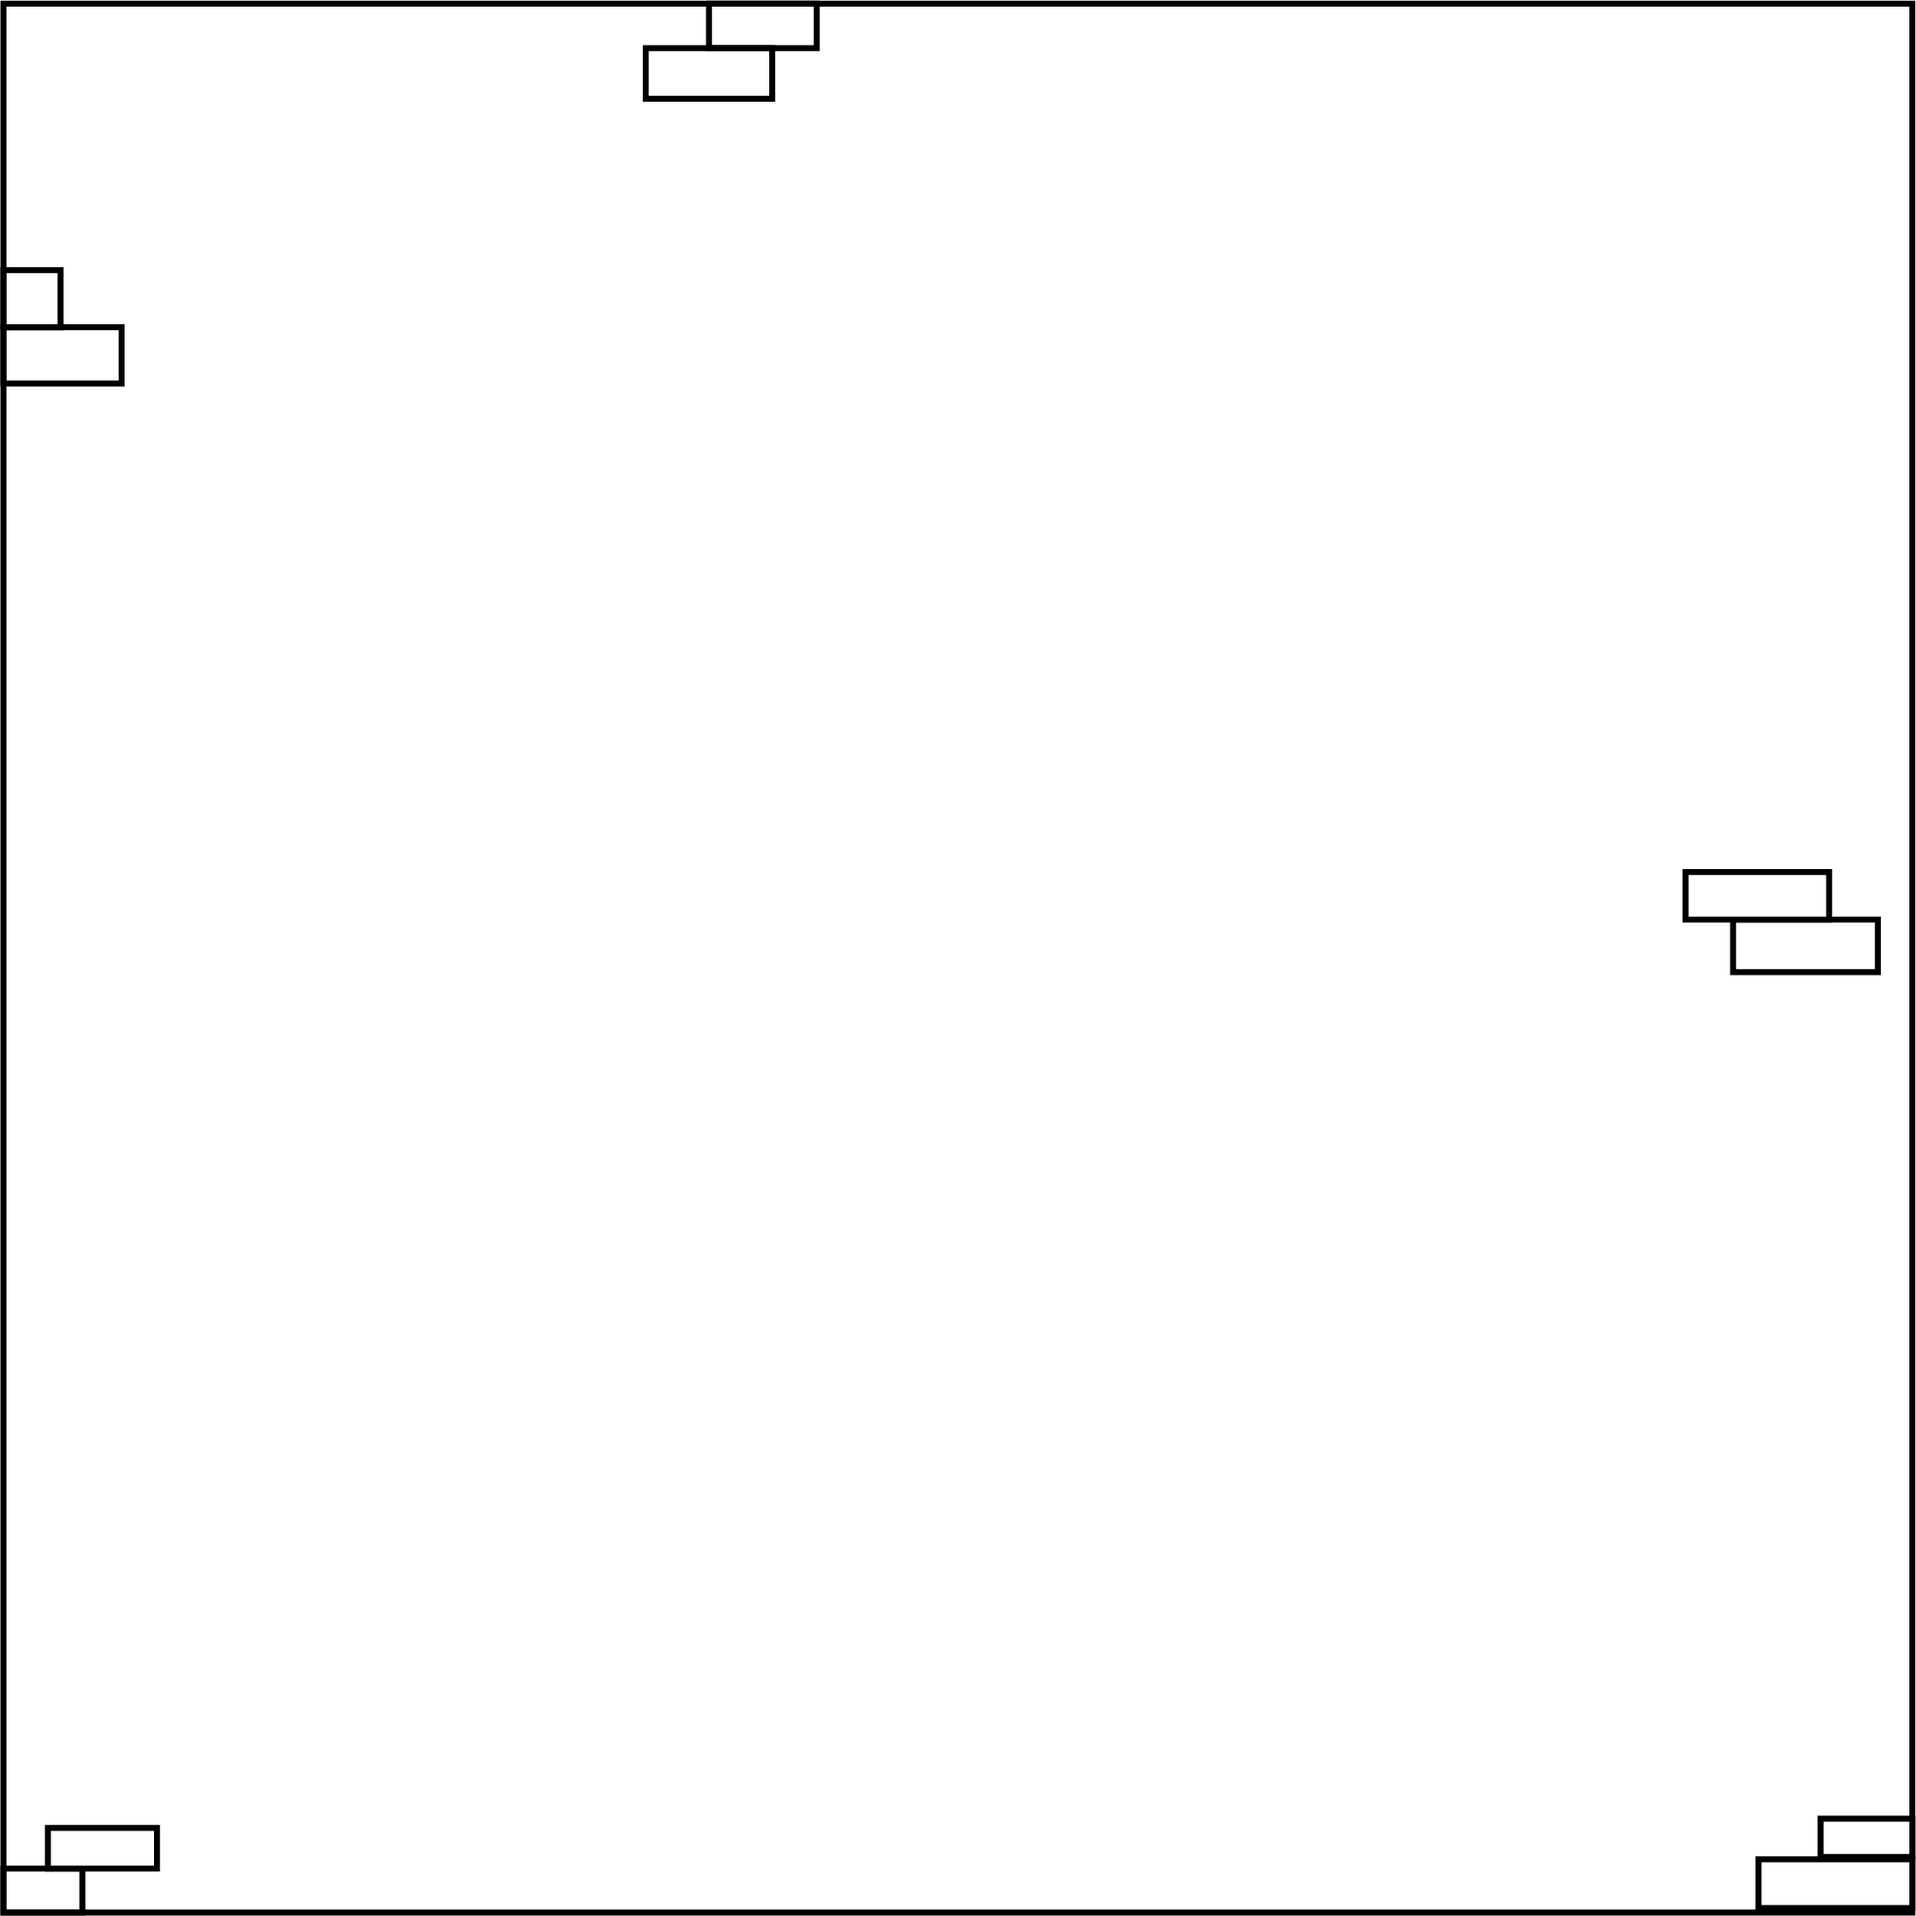
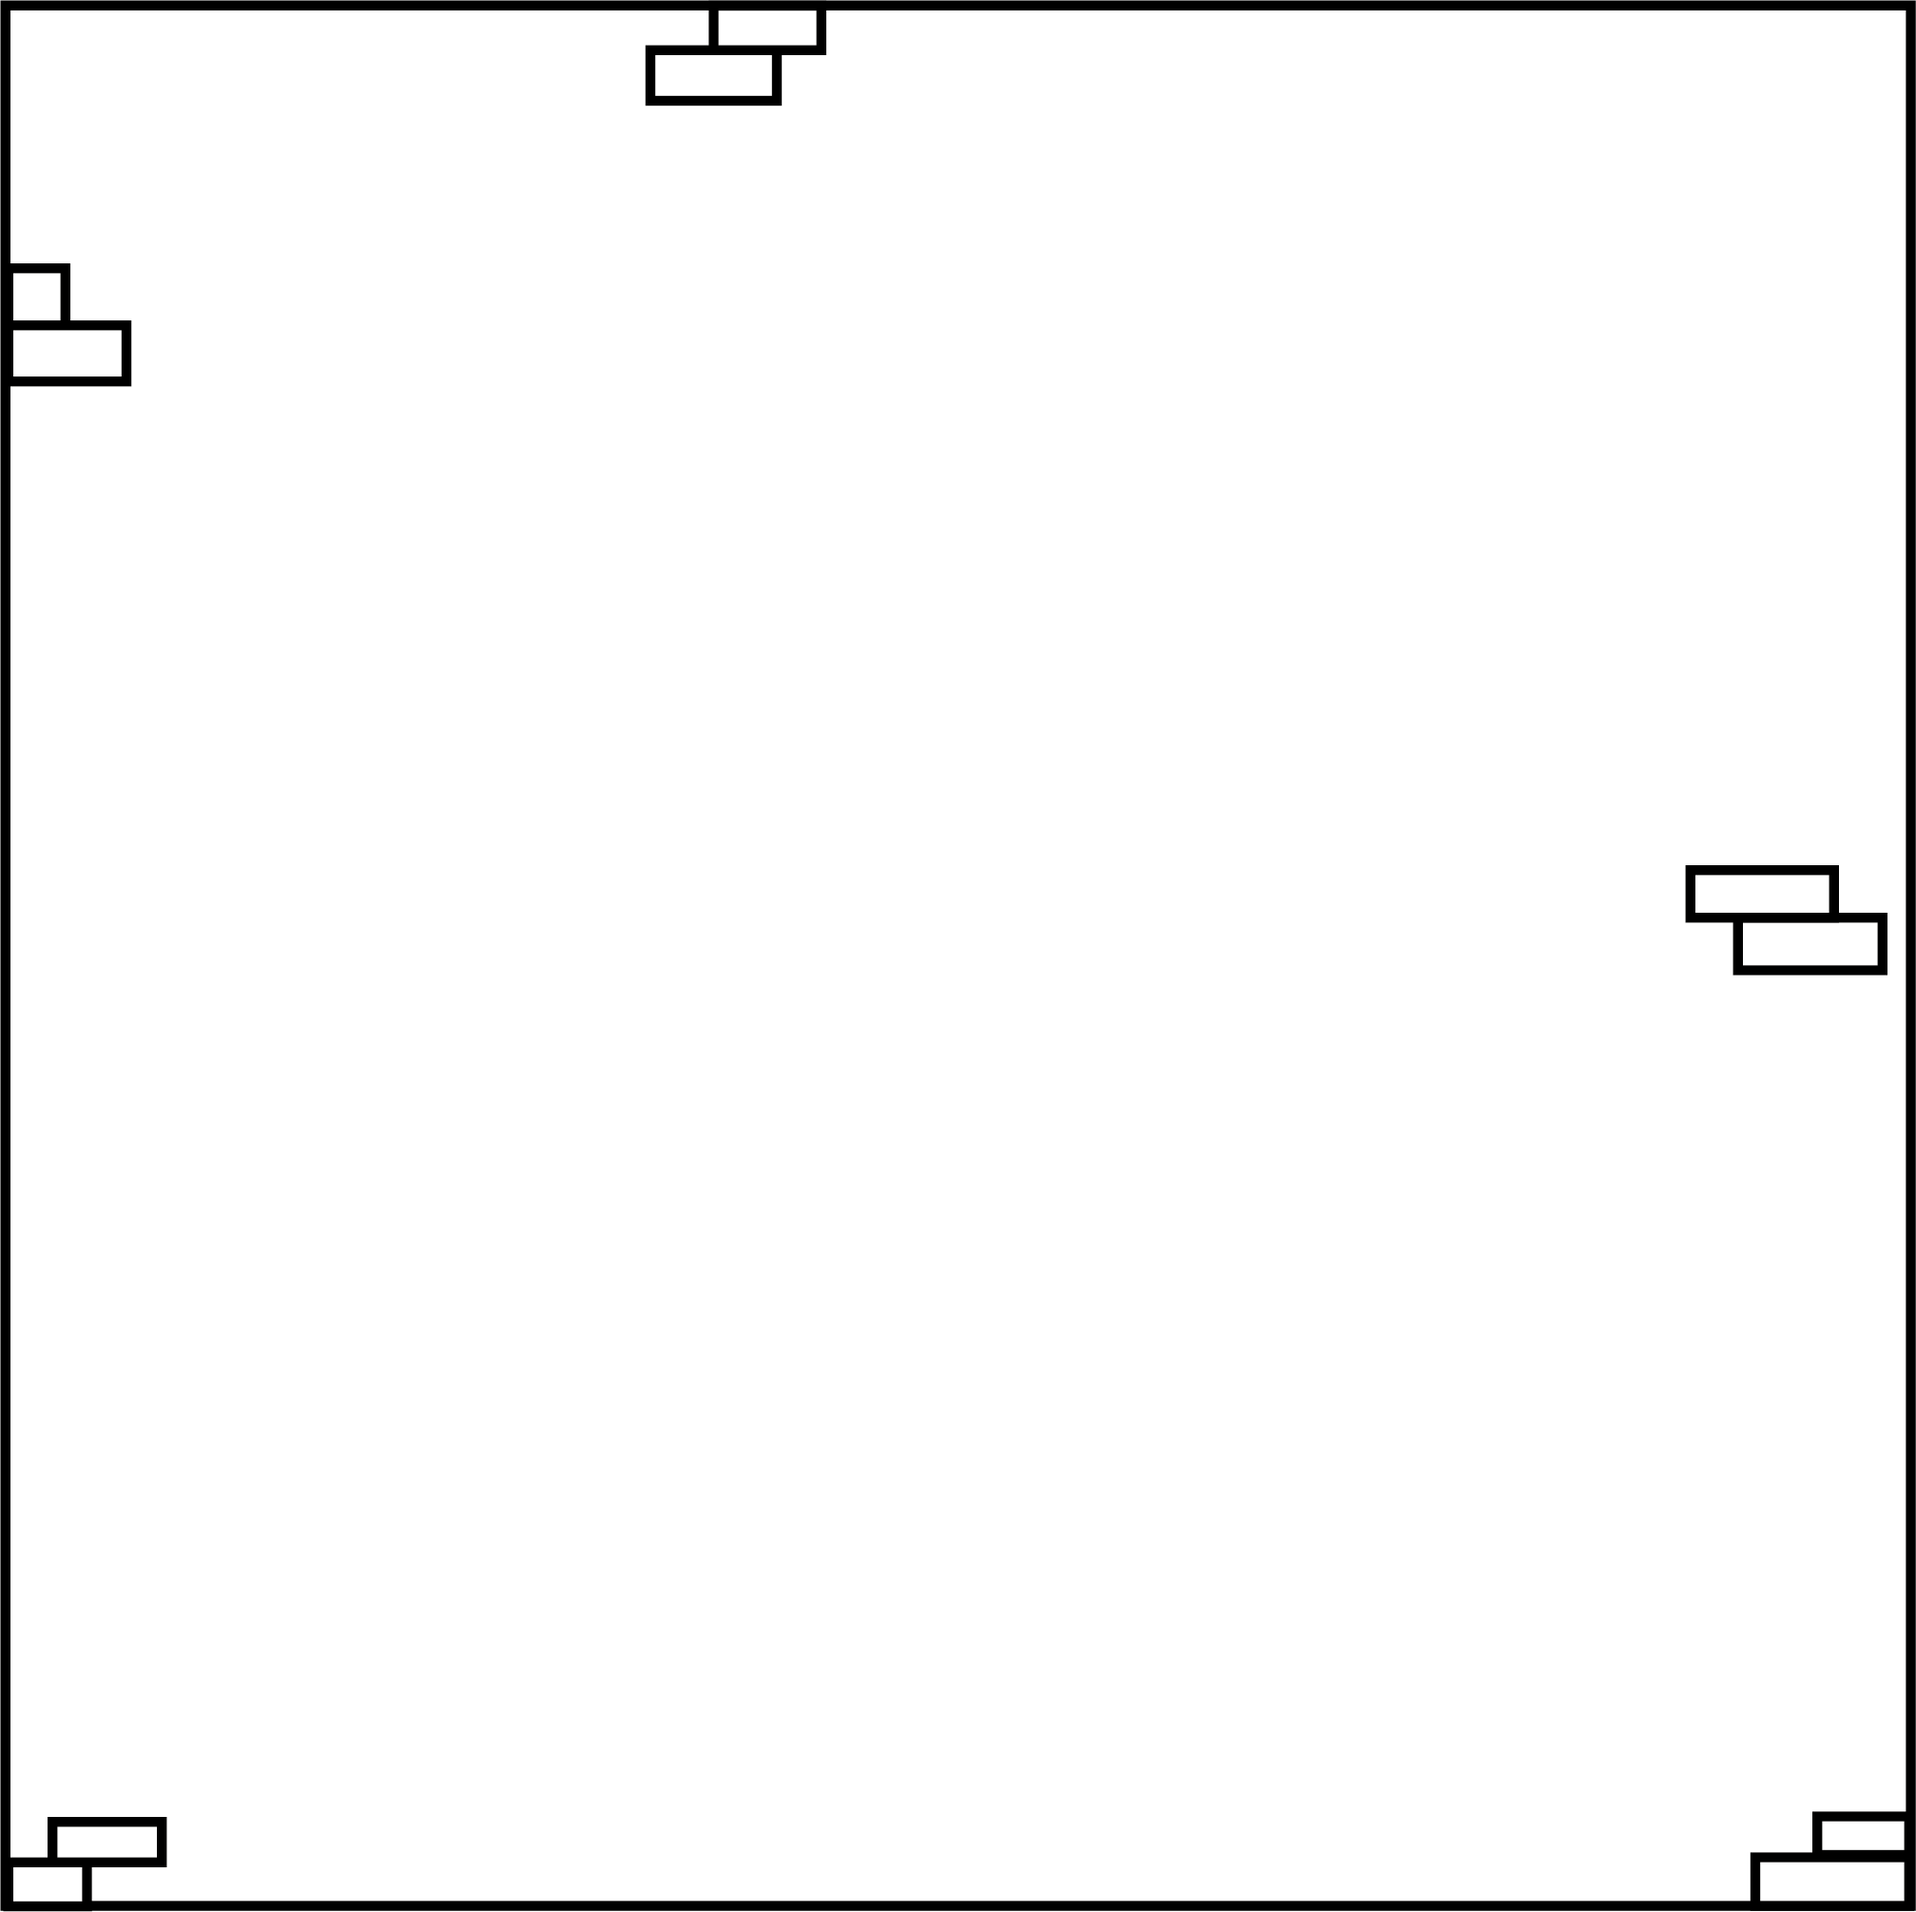
Janelas Funcionais

diff --git a/projetoCCD2.js b/projetoCCD2.js
@@ -7,20 +7,21 @@ let andares = [];
 
 let posXPortas = [];
 let posYPortas = [];
+
 let posXJanelas = [];
 let posYJanelas = [];
+let posJanelas = [];
 
 let randomPorta = [];
 let randomBase = [];
 let randomJanela = [];
 
-let tamanho = [];
+let scale = [];
 let randomPosX = [];
 
 let maxAndares = 10;
 let maxWidthBase = 75;
 let nAndares = [];
-let randomScale = [];
 
 let nTorres;
 let paisagem = [];
@@ -30,30 +31,30 @@ function preload() {
   loadJSON("portas.json", loadPortas);
   loadJSON("bases.json", loadBases);
 }
+
+//Load Janelas
 async function loadJanelas(data) {
   for (const janela of Object.keys(data)) {
     let img = await loadImage(data[janela]["imagePath"]);
-    //img.resize(round(img.width / tamanho), 0);
     data[janela]["imagem"] = img;
-    data[janela]["resizeFactor"] = tamanho;
     janelas.push(data[janela]);
   }
 }
 
+//Load Portas
 async function loadPortas(data) {
   for (const porta of Object.keys(data)) {
     let img = await loadImage(data[porta]["imagePath"]);
     data[porta]["imagem"] = img;
-    data[porta]["resizeFactor"] = round(tamanho);
     portas.push(data[porta]);
   }
 }
 
+//Load Bases
 async function loadBases(data) {
   for (const base of Object.keys(data)) {
     let img = await loadImage(data[base]["imagePath"]);
     data[base]["imagem"] = img;
-    data[base]["resizeFactor"] = round(tamanho);
     bases.push(data[base]);
   }
 }
@@ -64,42 +65,79 @@ function setup() {
 
   nTorres = int(random(2, 35));
 
+  //Criar um valor de nAndares, ta
   for (let x = 0; x < nTorres; x++) {
     nAndares[x] = int(random(2, maxAndares));
-    tamanho[x] = Math.round(5 + Math.random() * 10);
+    scale[x] = Math.round(5 + Math.random() * 10);
     randomPosX[x] = int(random(0, width - maxWidthBase));
-    randomScale[x] = Math.round(5 + Math.random() * 10);
-    paisagem[x] = []; // create nested array
+    scale[x] = Math.round(5 + Math.random() * 10);
+
+    // Criar array 2D
+    paisagem[x] = [];
     for (let y = 0; y < maxAndares + 2; y++) {
       paisagem[x][y];
     }
   }
 
-  print(paisagem);
+  //print(paisagem);
   for (let x = 0; x < nTorres; x++) {
+    //atribuir a randomPosX e o Scale às ultimas posições do array
     paisagem[x][maxAndares] = randomPosX[x];
-    paisagem[x][maxAndares - 1] = randomScale[x];
+    paisagem[x][maxAndares - 1] = scale[x];
 
     for (let y = 0; y < nAndares[x]; y++) {
+      //escolher elementos random para cada andar
+
+      // print(posXYJanelas[0].posX);
       randomJanela[y] = random(janelas);
       randomPorta[y] = random(portas);
       randomBase[y] = random(bases);
-      const baseWidth = round(randomBase[y].imagem.width / tamanho[x]);
-      const baseHeight = round(randomBase[y].imagem.height / tamanho[x]);
-      const portasWidth = round(randomPorta[y].imagem.width / tamanho[x]);
-      const portasHeight = round(randomPorta[y].imagem.height / tamanho[x]);
-      const janelasWidth = round(randomJanela[y].imagem.width / tamanho[x]);
-      const janelasHeight = round(randomJanela[y].imagem.height / tamanho[x]);
 
+      //larguras e alturas dos elementos
+      const baseWidth = round(randomBase[y].imagem.width / scale[x]);
+      const baseHeight = round(randomBase[y].imagem.height / scale[x]);
+      const portasWidth = round(randomPorta[y].imagem.width / scale[x]);
+      const portasHeight = round(randomPorta[y].imagem.height / scale[x]);
+      const janelasWidth = round(randomJanela[y].imagem.width / scale[x]);
+      const janelasHeight = round(randomJanela[y].imagem.height / scale[x]);
       const availableWidth =
-        baseWidth - (randomPorta[y].imagem.width / tamanho[x]) * 2;
-      print("Available" + availableWidth);
-      posXPortas[y] = portasWidth + (availableWidth / 10) * round(random(9.4));
-      posYPortas[y] = height - baseHeight * y - portasHeight;
-      posXJanelas[y] =
-        janelasWidth + (availableWidth / 10) * round(random(9.4));
-      posYJanelas[y] = height - (y + 1) * baseHeight + 0.1 * baseHeight;
+        baseWidth - (randomPorta[y].imagem.width / scale[x]) * 2;
 
+      //posiçõs dos elementos
+      posXPortas[y] = portasWidth + (availableWidth / 20) * round(random(19.4));
+      posYPortas[y] = height - baseHeight * y - portasHeight;
+      //posXJanelas[y] = janelasWidth + (availableWidth / 10) * round(random(9.4));
+      //posXJanelas[y] = (availableWidth / 10) * round(random(9.4));
+      posYJanelas[y] = height - (y + 1) * baseHeight + 0.1 * baseHeight;
+      posJanelas = [
+        {
+          posX: 1 * (baseWidth / 19),
+          posY: height - (y + 1) * baseHeight + (1 * baseHeight) / 19,
+        },
+        {
+          posX: 7 * (baseWidth / 19),
+          posY: height - (y + 1) * baseHeight + (1 * baseHeight) / 19,
+        },
+        {
+          posX: 13 * (baseWidth / 19),
+          posY: height - (y + 1) * baseHeight + (1 * baseHeight) / 19,
+        },
+        {
+          posX: 1 * (baseWidth / 19),
+          posY: height - (y + 1) * baseHeight + (7 * baseHeight) / 19,
+        },
+        {
+          posX: 7 * (baseWidth / 19),
+          posY: height - (y + 1) * baseHeight + (7 * baseHeight) / 19,
+        },
+        {
+          posX: 13 * (baseWidth / 19),
+          posY: height - (y + 1) * baseHeight + (7 * baseHeight) / 19,
+        },
+      ];
+
+      //print(posJanelas[0].posX);
+      //criar andar
       let andar = new Andar(
         randomPosX[x],
         height - (y + 1) * baseHeight,
@@ -112,9 +150,12 @@ function setup() {
         posYPortas[y],
         portasWidth,
         portasHeight,
-        1,
+        int(random(1, 7)),
         posXJanelas[y],
         posYJanelas[y],
+        //posJanelas[y].posX,
+        //posJanelas[y].posY,
+        posJanelas,
         janelasWidth,
         janelasHeight,
         randomJanela[y].imagem,
@@ -126,17 +167,20 @@ function setup() {
       paisagem[x][y] = andar;
     }
   }
-  print(paisagem);
+  //print(paisagem);
 }
 function draw() {
-  background(220);
+  background(0, 255, 255);
+  //desenhar a paisagem
   for (let x = 0; x < nTorres; x++) {
     for (let y = 0; y < nAndares[x]; y++) {
-      paisagem[x][y].drawAndar();
+      paisagem[x][y].drawBase();
+      paisagem[x][y].drawJanelas();
+      paisagem[x][y].drawPortas();
     }
   }
-  print(andares);
-  noLoop();
+  //print(andares);
+  //noLoop();
 }
 
 class Andar {
@@ -155,6 +199,7 @@ class Andar {
     nJanelas,
     posXJanela,
     posYJanela,
+    posJanela,
     janelaWidth,
     janelaHeight,
     imgsJanelas,
@@ -176,6 +221,7 @@ class Andar {
     this.nJanelas = nJanelas;
     this.posXJanela = posXJanela;
     this.posYJanela = posYJanela;
+    this.posJanela = posJanela;
     this.janelaWidth = janelaWidth;
     this.janelaHeight = janelaHeight;
     this.imgsJanelas = imgsJanelas;
@@ -184,10 +230,26 @@ class Andar {
     this.imgTelhado = imgTelhado;
   }
 
-  drawAndar() {
+  drawBase() {
     //Base
     image(this.imgBase, this.posX, this.posY, this.baseWidth, this.baseHeight);
+  }
+  drawJanelas() {
+    //janela
+    //shuffle(posXYJanelas, true);
 
+    for (let i = 0; i < this.nJanelas; i++) {
+      image(
+        this.imgsJanelas,
+        //this.posX + this.posXJanela + i * 10,
+        this.posX + this.posJanela[i].posX,
+        this.posJanela[i].posY,
+        this.janelaWidth,
+        this.janelaHeight
+      );
+    }
+  }
+  drawPortas() {
     //porta
     image(
       this.imgsPortas,
@@ -196,15 +258,6 @@ class Andar {
       this.portaWidth,
       this.portaHeight
     );
-    print("PosXPorta" + this.posXPorta);
-
-    //janela
-    image(
-      this.imgsJanelas,
-      this.posX + this.posXJanela,
-      this.posYJanela,
-      this.janelaWidth,
-      this.janelaHeight
-    );
+    //print("PosXPorta" + this.posXPorta);
   }
 }

diff --git a/associacao-medio.html b/associacao-medio.html
@@ -4,7 +4,7 @@
     <meta charset="UTF-8" />
     <meta http-equiv="X-UA-Compatible" content="IE=edge" />
     <meta name="viewport" content="width=device-width, initial-scale=1" />
-
+    <link rel="stylesheet" href="styles.css" />
     <title>01_basics</title>
 
     <script src="https://cdnjs.cloudflare.com/ajax/libs/p5.js/0.7.2/p5.min.js"></script>

diff --git a/style.css b/style.css
@@ -1,0 +1,6 @@
+* {
+  margin: 0;
+  padding: 0;
+  outline: 1px solid red;
+  overflow: hidden;
+}
